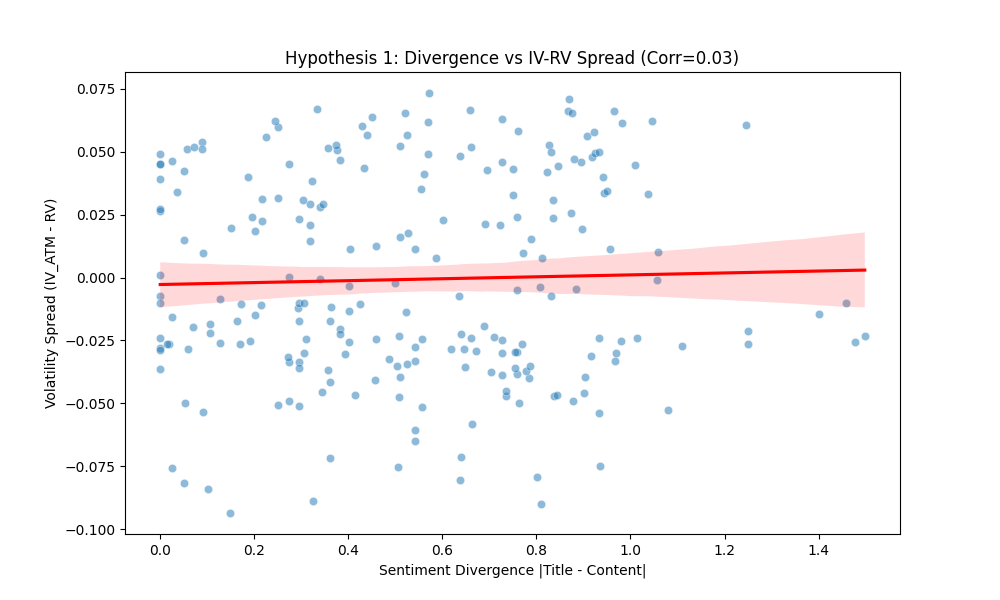
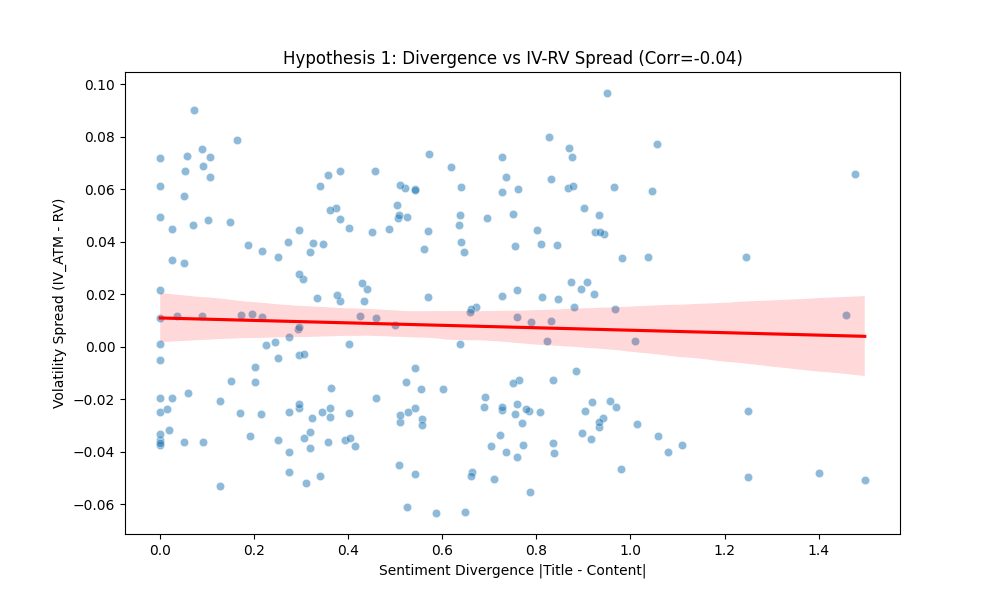
add finbet sentiment for sophisticated traders

diff --git a/model.py b/model.py
@@ -6,7 +6,7 @@ from mesa import Model
 from mesa.datacollection import DataCollector
 
 from agents import MarketMaker, NoiseTrader, SophisticatedTrader
-from utils import SentimentAnalyzer
+from utils import SentimentAnalyzer, FinBERTAnalyzer
 
 
 class FinancialMarket(Model):
@@ -29,6 +29,10 @@ class FinancialMarket(Model):
         self.news_data = self.load_data(stock_symbol)
         self.current_step_idx = 0
         self.current_news = None
+        
+        # Sentiment History for Adaptive Threshold (Z-score)
+        self.sentiment_history = []
+        self.window_size = 20
 
         # Agents List (Manual Scheduling)
         self.market_agents = []
@@ -83,17 +87,49 @@ class FinancialMarket(Model):
             print(f"File {file_path} not found. Using empty.")
             return []
 
-        # Analyze Sentiment
-        analyzer = SentimentAnalyzer()
+        # Analyze Sentiment with VADER (for Noise Traders)
+        vader_analyzer = SentimentAnalyzer()
         # Handle possible missing columns or empty strings
         df["title"] = df["title"].fillna("")
         df["summary"] = df["summary"].fillna("")
 
-        df["title_sentiment"] = df["title"].apply(analyzer.get_score)
-        df["content_sentiment"] = df["summary"].apply(analyzer.get_score)
+        df["title_sentiment"] = df["title"].apply(vader_analyzer.get_score)
+        df["content_sentiment"] = df["summary"].apply(vader_analyzer.get_score)
+        
+        # Analyze Sentiment with FinBERT (for Sophisticated Traders)
+        try:
+            finbert_analyzer = FinBERTAnalyzer()
+            df["title_sentiment_finbert"] = df["title"].apply(finbert_analyzer.get_score)
+            df["content_sentiment_finbert"] = df["summary"].apply(finbert_analyzer.get_score)
+        except Exception as e:
+            print(f"FinBERT failed to load: {e}. Using VADER for all.")
+            df["title_sentiment_finbert"] = df["title_sentiment"]
+            df["content_sentiment_finbert"] = df["content_sentiment"]
 
         return df.to_dict("records")
 
+    def get_sentiment_z_score(self):
+        """
+        Calculate Z-score of current sentiment relative to recent history.
+        Returns: (current_sentiment - mean) / std
+        """
+        if not self.current_news:
+            return 0.0
+            
+        current_sent = self.current_news.get("title_sentiment", 0)
+        
+        if len(self.sentiment_history) < 5:
+            return 0.0  # Not enough data
+            
+        # Use rolling window
+        recent_history = self.sentiment_history[-self.window_size:]
+        mean = np.mean(recent_history)
+        std = np.std(recent_history)
+        
+        if std == 0:
+            return 0.0
+            
+        return (current_sent - mean) / std
     def step(self):
         if self.current_step_idx >= len(self.news_data):
             self.running = False
@@ -102,6 +138,9 @@ class FinancialMarket(Model):
         # Get News
         self.current_news = self.news_data[self.current_step_idx]
         self.current_step_idx += 1
+        
+        # Update Sentiment History
+        self.sentiment_history.append(self.current_news.get("title_sentiment", 0))
 
         # Update Stock Price (Geometric Brownian Motion)
         # Drift depends on Content Sentiment (The "Real" News)

diff --git a/agents.py b/agents.py
@@ -259,20 +259,23 @@ class NoiseTrader(MarketParticipant):
         if news is None:
             return
 
-        sentiment = news.get("title_sentiment", 0)
-        action_threshold = 0.1
+        # Use Z-score for adaptive threshold
+        z_score = self.model.get_sentiment_z_score()
+        
+        # Threshold: Trade if sentiment is > 1 std dev from mean
+        action_threshold = 1.0
 
         # HYPOTHESIS 2: Noise Traders buy "Lottery Tickets" (OTM Options)
-        # If Bullish -> Buy Call OTM (Strike 110)
-        # If Bearish -> Buy Put OTM (Strike 90)
+        # If Bullish (Z > 1) -> Buy Call OTM (Strike S*1.1)
+        # If Bearish (Z < -1) -> Buy Put OTM (Strike S*0.9)
 
-        if sentiment > action_threshold:
+        if z_score > action_threshold:
             # Buy Call OTM (S * 1.1)
             strike = int(self.model.stock_price * 1.1)
             cost = self.model.market_maker.process_order("buy_call", 1, strike=strike)
             self.portfolio["calls"] += 1
             self.portfolio["cash"] -= cost
-        elif sentiment < -action_threshold:
+        elif z_score < -action_threshold:
             # Buy Put OTM (S * 0.9)
             strike = int(self.model.stock_price * 0.9)
             cost = self.model.market_maker.process_order("buy_put", 1, strike=strike)
@@ -289,8 +292,9 @@ class SophisticatedTrader(MarketParticipant):
         if news is None:
             return
 
-        title_sent = news.get("title_sentiment", 0)
-        content_sent = news.get("content_sentiment", 0)
+        # Use FinBERT sentiment (finance-specific) for sophisticated analysis
+        title_sent = news.get("title_sentiment_finbert", news.get("title_sentiment", 0))
+        content_sent = news.get("content_sentiment_finbert", news.get("content_sentiment", 0))
 
         # Divergence
         divergence = abs(title_sent - content_sent)

diff --git a/utils.py b/utils.py
@@ -53,3 +53,42 @@ class SentimentAnalyzer:
 
         scores = self.analyzer.polarity_scores(text)
         return scores["compound"]
+
+
+class FinBERTAnalyzer:
+    """
+    Finance-specific sentiment analyzer using ProsusAI/finbert.
+    Returns sentiment score in range [-1, 1] for consistency with VADER.
+    """
+    def __init__(self):
+        from transformers import AutoTokenizer, AutoModelForSequenceClassification
+        import torch
+        
+        self.device = "cuda" if torch.cuda.is_available() else "cpu"
+        self.tokenizer = AutoTokenizer.from_pretrained("ProsusAI/finbert")
+        self.model = AutoModelForSequenceClassification.from_pretrained("ProsusAI/finbert")
+        self.model.to(self.device)
+        self.model.eval()
+        self.torch = torch
+
+    def get_score(self, text: str) -> float:
+        if not isinstance(text, str) or not text.strip():
+            return 0.0
+
+        try:
+            inputs = self.tokenizer(text, return_tensors="pt", truncation=True, max_length=512)
+            inputs = {k: v.to(self.device) for k, v in inputs.items()}
+            
+            with self.torch.no_grad():
+                outputs = self.model(**inputs)
+                probs = self.torch.nn.functional.softmax(outputs.logits, dim=-1)
+            
+            # FinBERT outputs: [positive, negative, neutral]
+            positive = probs[0][0].item()
+            negative = probs[0][1].item()
+            
+            # Convert to [-1, 1] scale: positive - negative
+            return positive - negative
+        except Exception:
+            return 0.0
+
